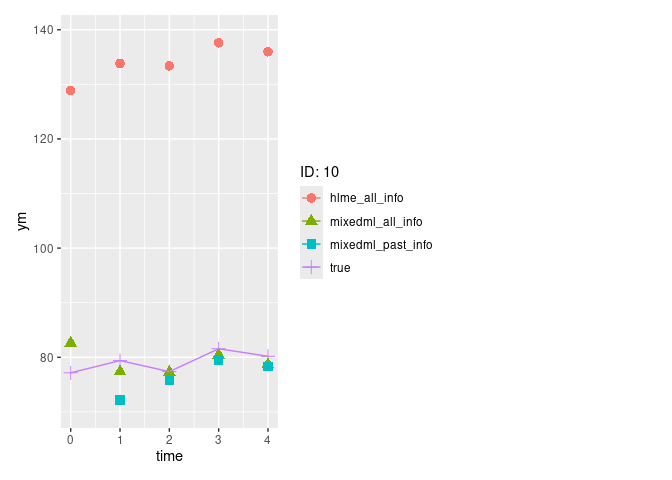
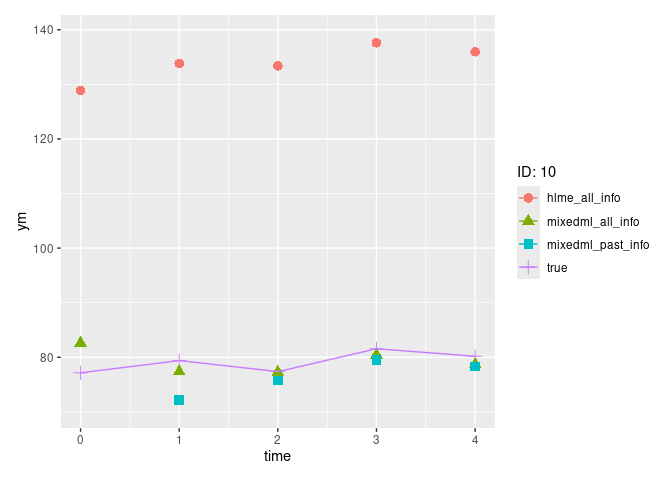
Fix examples

diff --git a/README.md b/README.md
@@ -224,7 +224,7 @@ data_val <- data_mixedml[data_mixedml$ID == 9, ]
 data_test <- data_mixedml[data_mixedml$ID == 10, ]
 
 model_reservoir <- reservoir_mixedml(
-  fixed_spec = ym ~ x1 + x2 + x3,
+  fixed_spec = ym ~ 1 + x1 + x2 + x3,
   random_spec = ~ 1 + x1 + x2,
   data = data_train,
   data_val = data_val,
@@ -497,7 +497,7 @@ model_reservoir$random_model
 ``` r
 # (this model uses reticulate so it not very convenient as an example…)
 model_reservoir$fixed_model
-#> <reservoir_ensemble.JoblibReservoirEnsemble object at 0x7b1b4f7da990>
+#> <reservoir_ensemble.JoblibReservoirEnsemble object at 0x78d97c756990>
 ```
 
 Also a `call` attribute exists, meaning one can trained the model with
@@ -600,7 +600,7 @@ summary(model_reservoir)
 ## 6.2 `plot_convergence`
 
 ``` r
-plot_convergence(model = model_reservoir, ylog = TRUE)
+plot_convergence(model = model_reservoir, ylog_mse = TRUE)
 ```
 
 <img src="man/figures/README-unnamed-chunk-14-1.png" width="100%" />
@@ -643,8 +643,8 @@ pred_test_all
 
 ``` r
 hlme_model <- lcmm::hlme(
-  fixed = ym ~ x1 + x2 + x3,
-  random = ~ x1 + x2,
+  fixed = ym ~ 1 + x1 + x2 + x3,
+  random = ~ 1 + x1 + x2,
   data = data_train,
   subject = "ID",
   var.time = "time"
@@ -660,7 +660,8 @@ plot_predictions(
     mixedml_all_info = pred_test_all,
     mixedml_past_info = pred_test_past,
     hlme_all_info = hlme_preds_all
-  )
+  ),
+  ncols = 1
 )
 ```
 
@@ -688,7 +689,7 @@ mixedml_model <- load_mixedml("model_reservoir.Rds")
 
 ``` r
 mixedml_model$fixed_model
-#> <reservoir_ensemble.JoblibReservoirEnsemble object at 0x7b1b4f7dbed0>
+#> <reservoir_ensemble.JoblibReservoirEnsemble object at 0x78d97c757ed0>
 ```
 
 ``` r
